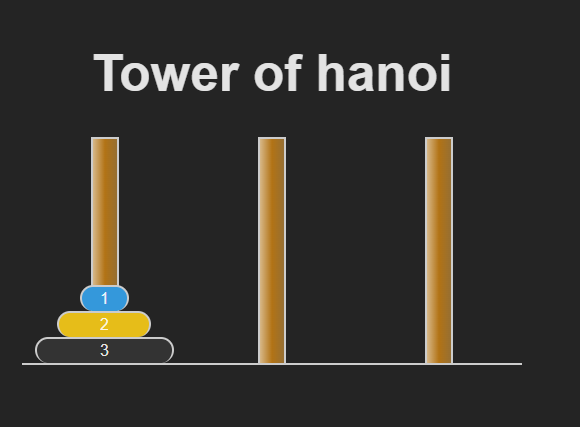
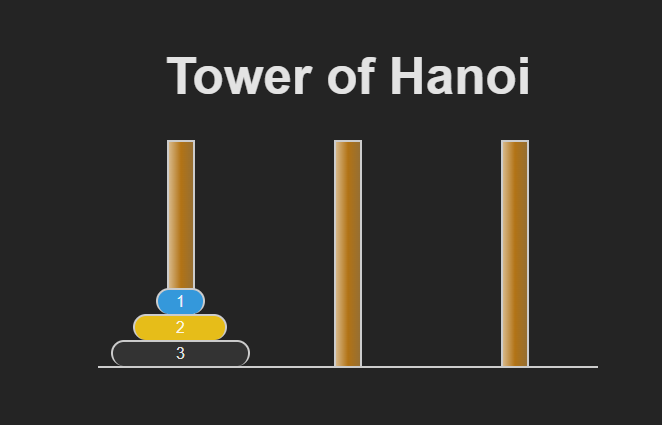
update hanoi to Hanoi

Changed region(s): [[0.031, 0.3059, 0.9, 0.8871], [0.1552, 0.1224, 0.8069, 0.2447]]

diff --git a/packages/vue-tower-of-hanoi/index.html b/packages/vue-tower-of-hanoi/index.html
@@ -4,7 +4,7 @@
     <meta charset="UTF-8" />
     <link rel="icon" type="image/svg+xml" href="/vite.svg" />
     <meta name="viewport" content="width=device-width, initial-scale=1.0" />
-    <title>Vite + Vue + TS</title>
+    <title>Tower of Hanoi</title>
   </head>
   <body>
     <div id="app"></div>

diff --git a/packages/vue-tower-of-hanoi/src/App.vue b/packages/vue-tower-of-hanoi/src/App.vue
@@ -4,7 +4,7 @@ import TowerOfHanoi from './components/TowerOfHanoi.vue';
 
 <template>
   <div>
-    <h1>Tower of hanoi</h1>
+    <h1>Tower of Hanoi</h1>
     <TowerOfHanoi />
   </div>
 </template>
